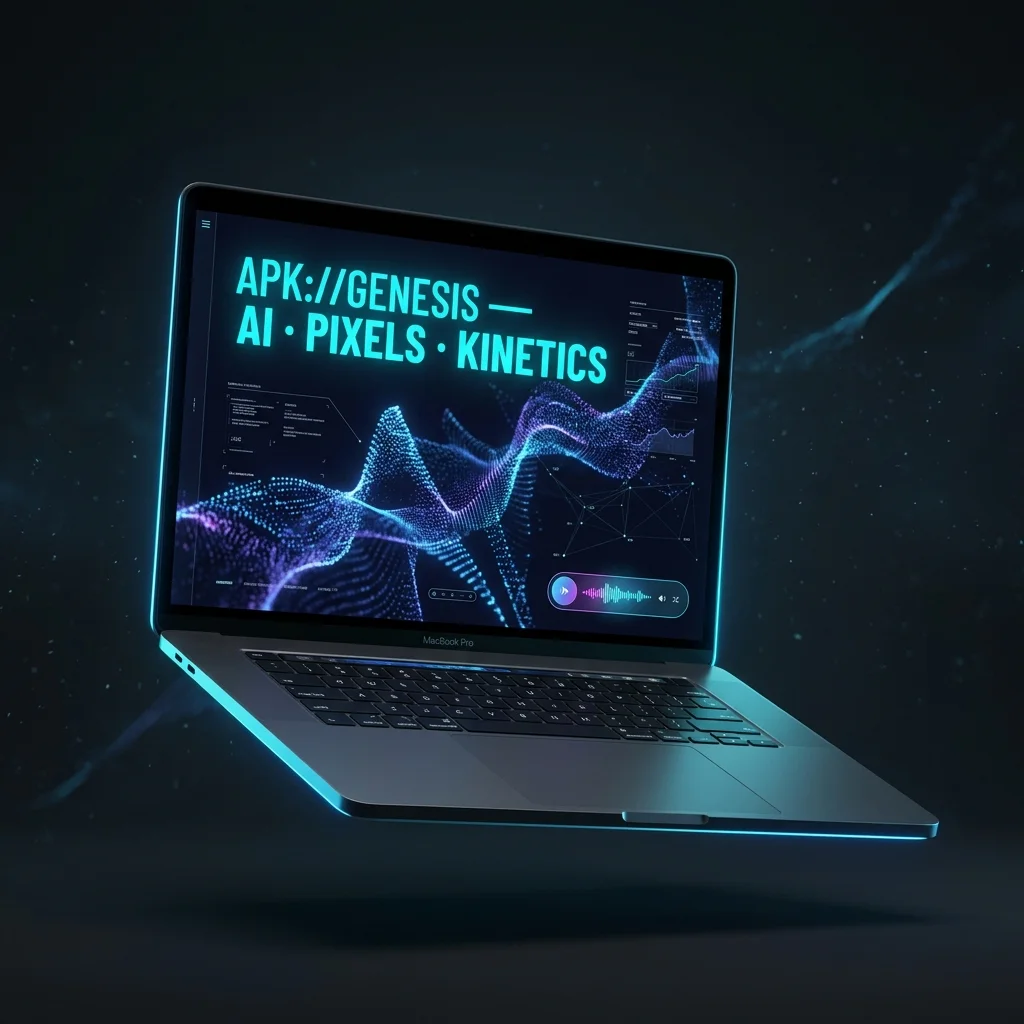
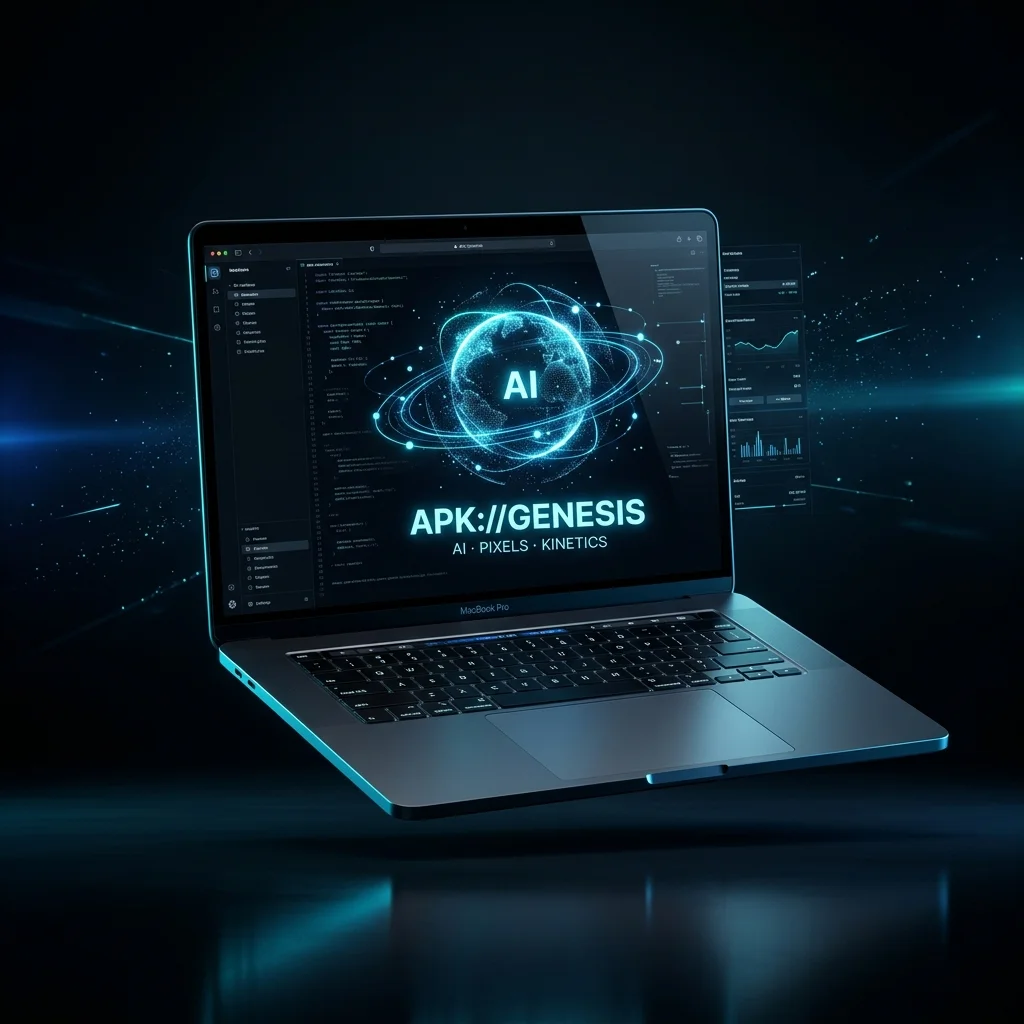
style(projects): update APK://GENESIS mockup graphic with AI orbital sphere design

diff --git a/CHANGELOG.md b/CHANGELOG.md
@@ -8,7 +8,7 @@ stosują [Semantic Versioning](https://semver.org/).
 
 ### Changed
 
-- zastąpiono projekt „ASCENT — The Human Journey” nowym interaktywnym manifestem cyfrowym „APK://GENESIS” (<https://apkmasondev.github.io/apk_genesis/>, kategoria: story) wraz z dedykowaną grafiką 3D (genesis_mockup.webp),
+- zastąpiono projekt „ASCENT — The Human Journey” nowym interaktywnym manifestem cyfrowym „APK://GENESIS” (<https://apkmasondev.github.io/apk_genesis/>, kategoria: story) wraz z nową grafiką 3D ze sferą AI (genesis_mockup.webp),
 - nagłówek sekcji „O mnie” otrzymał znaczeniową hierarchię koloru: ciepłą biel
   dla pracy dziennej, kamienny szary dla przejścia oraz statyczny gradient
   prowadzący do firmowego pomarańczu na frazie „nowe światy”,
